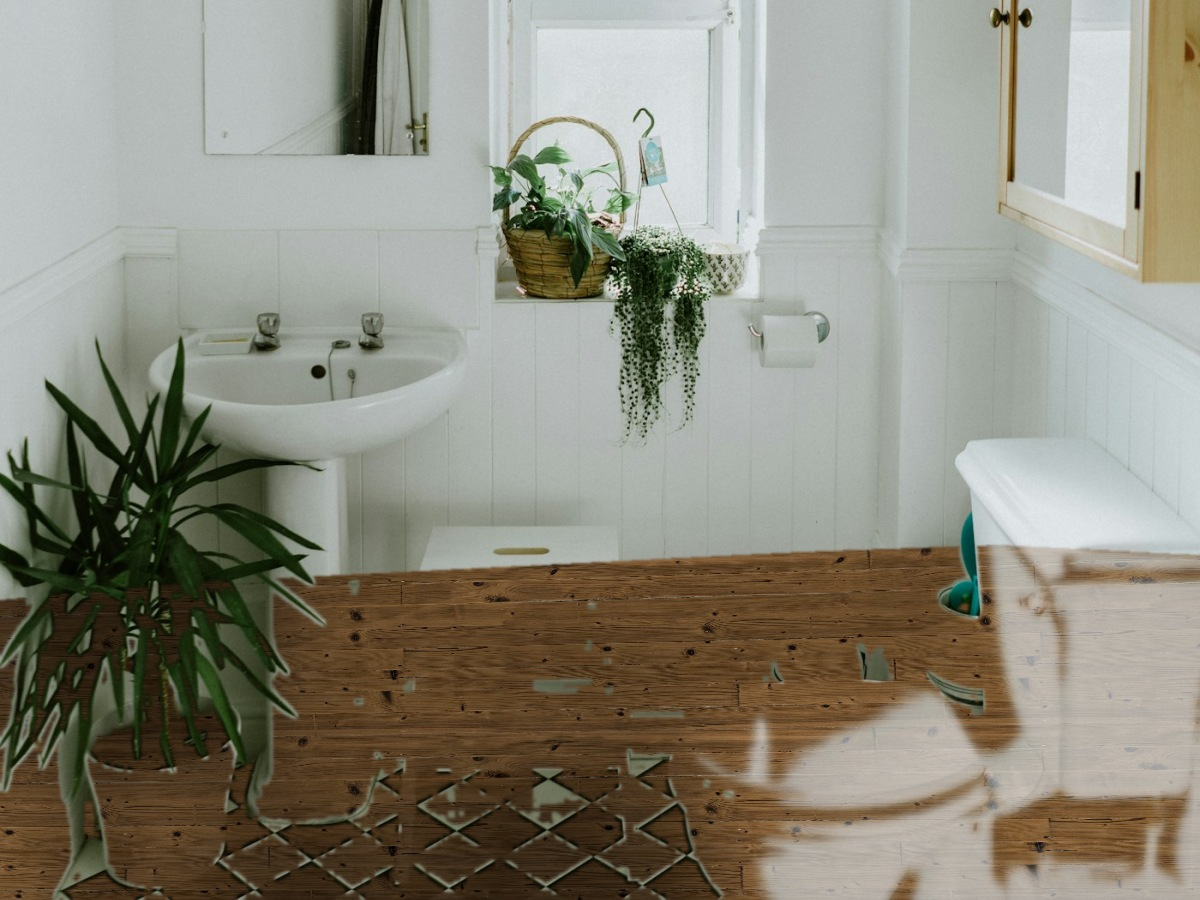
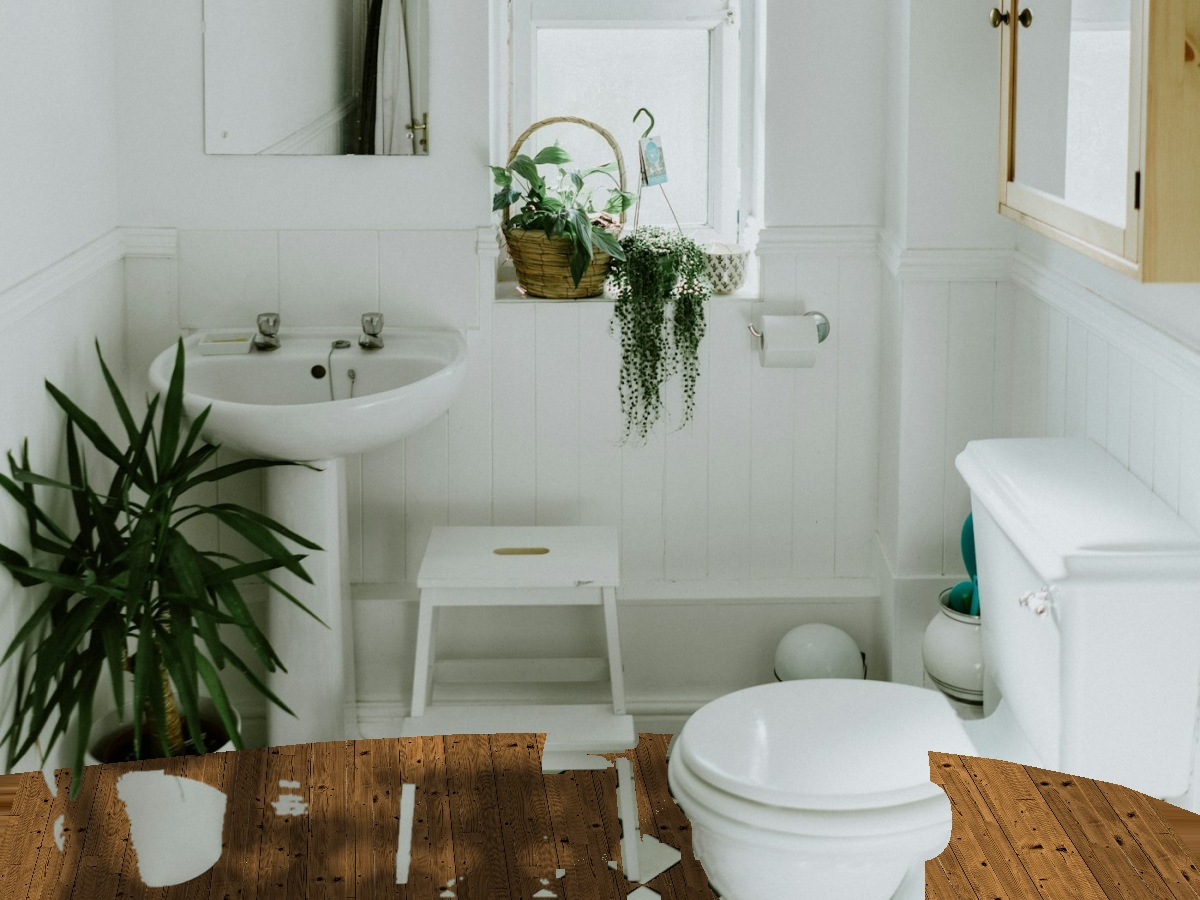
Rebuild gallery afters as plank composites; add footer contact.
Perspective-warp site warm-oak/medium-oak textures onto the three demo
befores (toilet kept clear; floor masks stay on the floor plane). Cache-bust
Projects seeds. Add a short mailto contact line to public footers.

Changed region(s): [[0.0, 0.5911, 1.0, 1.0]]

diff --git a/projects.js b/projects.js
@@ -34,8 +34,8 @@ function seedProjects() {
       role: "customer",
       notes:
         "Example composite: warm oak plank look on the empty-room before photo (not a finished install photo).",
-      before: [{ src: "gallery/before-living-empty.jpg?v=20260930", label: "Before" }],
-      after: [{ src: "gallery/after-living-warm-oak.jpg?v=20260930", label: "After" }],
+      before: [{ src: "gallery/before-living-empty.jpg?v=20260930b", label: "Before" }],
+      after: [{ src: "gallery/after-living-warm-oak.jpg?v=20260930b", label: "After" }],
       createdAt: "2026-01-12T12:00:00.000Z"
     },
     {
@@ -47,8 +47,8 @@ function seedProjects() {
       role: "customer",
       notes:
         "Example composite: checkered bath floor visible in before; medium oak plank look in after (not a finished install photo).",
-      before: [{ src: "gallery/before-bath-checkered.jpg?v=20260930", label: "Before" }],
-      after: [{ src: "gallery/after-bath-medium-oak.jpg?v=20260930", label: "After" }],
+      before: [{ src: "gallery/before-bath-checkered.jpg?v=20260930b", label: "Before" }],
+      after: [{ src: "gallery/after-bath-medium-oak.jpg?v=20260930b", label: "After" }],
       createdAt: "2026-02-03T15:00:00.000Z"
     },
     {
@@ -60,8 +60,8 @@ function seedProjects() {
       role: "customer",
       notes:
         "Example composite: warm oak plank look on the open-plan before photo (not a finished install photo).",
-      before: [{ src: "gallery/before-open-carpet.jpg?v=20260930", label: "Before" }],
-      after: [{ src: "gallery/after-open-warm-oak.jpg?v=20260930", label: "After" }],
+      before: [{ src: "gallery/before-open-carpet.jpg?v=20260930b", label: "Before" }],
+      after: [{ src: "gallery/after-open-warm-oak.jpg?v=20260930b", label: "After" }],
       createdAt: "2026-03-20T18:00:00.000Z"
     }
   ];

diff --git a/guide.html b/guide.html
@@ -98,6 +98,7 @@
   <footer class="site-footer">
     <div class="wrap">
       <p>Vinyl or Not · DIY flooring · <a href="guide.html">LVP guide</a> · <a href="guide/tools.html">Tools</a> · <a href="measure.html">Measure</a> · <a href="visualize.html">Visualize</a> · <a href="projects.html">Projects</a></p>
+      <p>If you have any questions, reach out — <a href="mailto:cosmicbonbonsss@gmail.com">cosmicbonbonsss@gmail.com</a></p>
     </div>
   </footer>
   <script data-goatcounter="https://vinylornot.goatcounter.com/count"

diff --git a/guide/start.html b/guide/start.html
@@ -100,6 +100,7 @@
   <footer class="site-footer">
     <div class="wrap">
       <p>Vinyl or Not · DIY · <a href="../guide.html">LVP guide</a> · <a href="../measure.html">Measure</a> · <a href="../visualize.html">Visualize</a> · <a href="../projects.html">Projects</a></p>
+      <p>If you have any questions, reach out — <a href="mailto:cosmicbonbonsss@gmail.com">cosmicbonbonsss@gmail.com</a></p>
     </div>
   </footer>
   <script data-goatcounter="https://vinylornot.goatcounter.com/count"

diff --git a/guide/tools.html b/guide/tools.html
@@ -196,6 +196,7 @@
   <footer class="site-footer">
     <div class="wrap">
       <p>Vinyl or Not · DIY · <a href="../guide.html">LVP guide</a> · <a href="../measure.html">Measure</a> · <a href="../visualize.html">Visualize</a> · <a href="../projects.html">Projects</a></p>
+      <p>If you have any questions, reach out — <a href="mailto:cosmicbonbonsss@gmail.com">cosmicbonbonsss@gmail.com</a></p>
     </div>
   </footer>
   <script data-goatcounter="https://vinylornot.goatcounter.com/count"

diff --git a/guide/troubleshoot.html b/guide/troubleshoot.html
@@ -110,6 +110,7 @@
   <footer class="site-footer">
     <div class="wrap">
       <p>Vinyl or Not · DIY · <a href="../guide.html">LVP guide</a> · <a href="../measure.html">Measure</a> · <a href="../visualize.html">Visualize</a> · <a href="../projects.html">Projects</a></p>
+      <p>If you have any questions, reach out — <a href="mailto:cosmicbonbonsss@gmail.com">cosmicbonbonsss@gmail.com</a></p>
     </div>
   </footer>
   <script data-goatcounter="https://vinylornot.goatcounter.com/count"

diff --git a/guide/what-is-lvp.html b/guide/what-is-lvp.html
@@ -172,6 +172,7 @@
   <footer class="site-footer">
     <div class="wrap">
       <p>Vinyl or Not · DIY · <a href="../guide.html">LVP guide</a> · <a href="../measure.html">Measure</a> · <a href="../visualize.html">Visualize</a> · <a href="../projects.html">Projects</a></p>
+      <p>If you have any questions, reach out — <a href="mailto:cosmicbonbonsss@gmail.com">cosmicbonbonsss@gmail.com</a></p>
     </div>
   </footer>
   <script data-goatcounter="https://vinylornot.goatcounter.com/count"

diff --git a/guide/finish-care.html b/guide/finish-care.html
@@ -96,6 +96,7 @@
   <footer class="site-footer">
     <div class="wrap">
       <p>Vinyl or Not · DIY · <a href="../guide.html">LVP guide</a> · <a href="../measure.html">Measure</a> · <a href="../visualize.html">Visualize</a> · <a href="../projects.html">Projects</a></p>
+      <p>If you have any questions, reach out — <a href="mailto:cosmicbonbonsss@gmail.com">cosmicbonbonsss@gmail.com</a></p>
     </div>
   </footer>
   <script data-goatcounter="https://vinylornot.goatcounter.com/count"

diff --git a/guide/install.html b/guide/install.html
@@ -94,6 +94,7 @@
   <footer class="site-footer">
     <div class="wrap">
       <p>Vinyl or Not · DIY · <a href="../guide.html">LVP guide</a> · <a href="../measure.html">Measure</a> · <a href="../visualize.html">Visualize</a> · <a href="../projects.html">Projects</a></p>
+      <p>If you have any questions, reach out — <a href="mailto:cosmicbonbonsss@gmail.com">cosmicbonbonsss@gmail.com</a></p>
     </div>
   </footer>
   <script data-goatcounter="https://vinylornot.goatcounter.com/count"

diff --git a/guide/measure-plan.html b/guide/measure-plan.html
@@ -92,6 +92,7 @@
   <footer class="site-footer">
     <div class="wrap">
       <p>Vinyl or Not · DIY · <a href="../guide.html">LVP guide</a> · <a href="../measure.html">Measure</a> · <a href="../visualize.html">Visualize</a> · <a href="../projects.html">Projects</a></p>
+      <p>If you have any questions, reach out — <a href="mailto:cosmicbonbonsss@gmail.com">cosmicbonbonsss@gmail.com</a></p>
     </div>
   </footer>
   <script data-goatcounter="https://vinylornot.goatcounter.com/count"

diff --git a/guide/prep.html b/guide/prep.html
@@ -92,6 +92,7 @@
   <footer class="site-footer">
     <div class="wrap">
       <p>Vinyl or Not · DIY · <a href="../guide.html">LVP guide</a> · <a href="../measure.html">Measure</a> · <a href="../visualize.html">Visualize</a> · <a href="../projects.html">Projects</a></p>
+      <p>If you have any questions, reach out — <a href="mailto:cosmicbonbonsss@gmail.com">cosmicbonbonsss@gmail.com</a></p>
     </div>
   </footer>
   <script data-goatcounter="https://vinylornot.goatcounter.com/count"

diff --git a/measure.html b/measure.html
@@ -112,6 +112,7 @@
   <footer class="site-footer">
     <div class="wrap">
       <p>Vinyl or Not · DIY flooring · <a href="guide.html">LVP guide</a> · <a href="measure.html">Measure</a> · <a href="visualize.html">Visualize</a> · <a href="projects.html">Projects</a></p>
+      <p>If you have any questions, reach out — <a href="mailto:cosmicbonbonsss@gmail.com">cosmicbonbonsss@gmail.com</a></p>
     </div>
   </footer>
   <script data-goatcounter="https://vinylornot.goatcounter.com/count"

diff --git a/visualize.html b/visualize.html
@@ -161,6 +161,7 @@
   <footer class="site-footer">
     <div class="wrap">
       <p>Vinyl or Not · LVP overlay · textures: ambientCG CC0 · <a href="textures/CREDITS.md">credits</a> · <a href="guide.html">LVP guide</a> · <a href="diy-install.html">Install</a> · <a href="projects.html">Project gallery</a></p>
+      <p>If you have any questions, reach out — <a href="mailto:cosmicbonbonsss@gmail.com">cosmicbonbonsss@gmail.com</a></p>
     </div>
   </footer>
 
